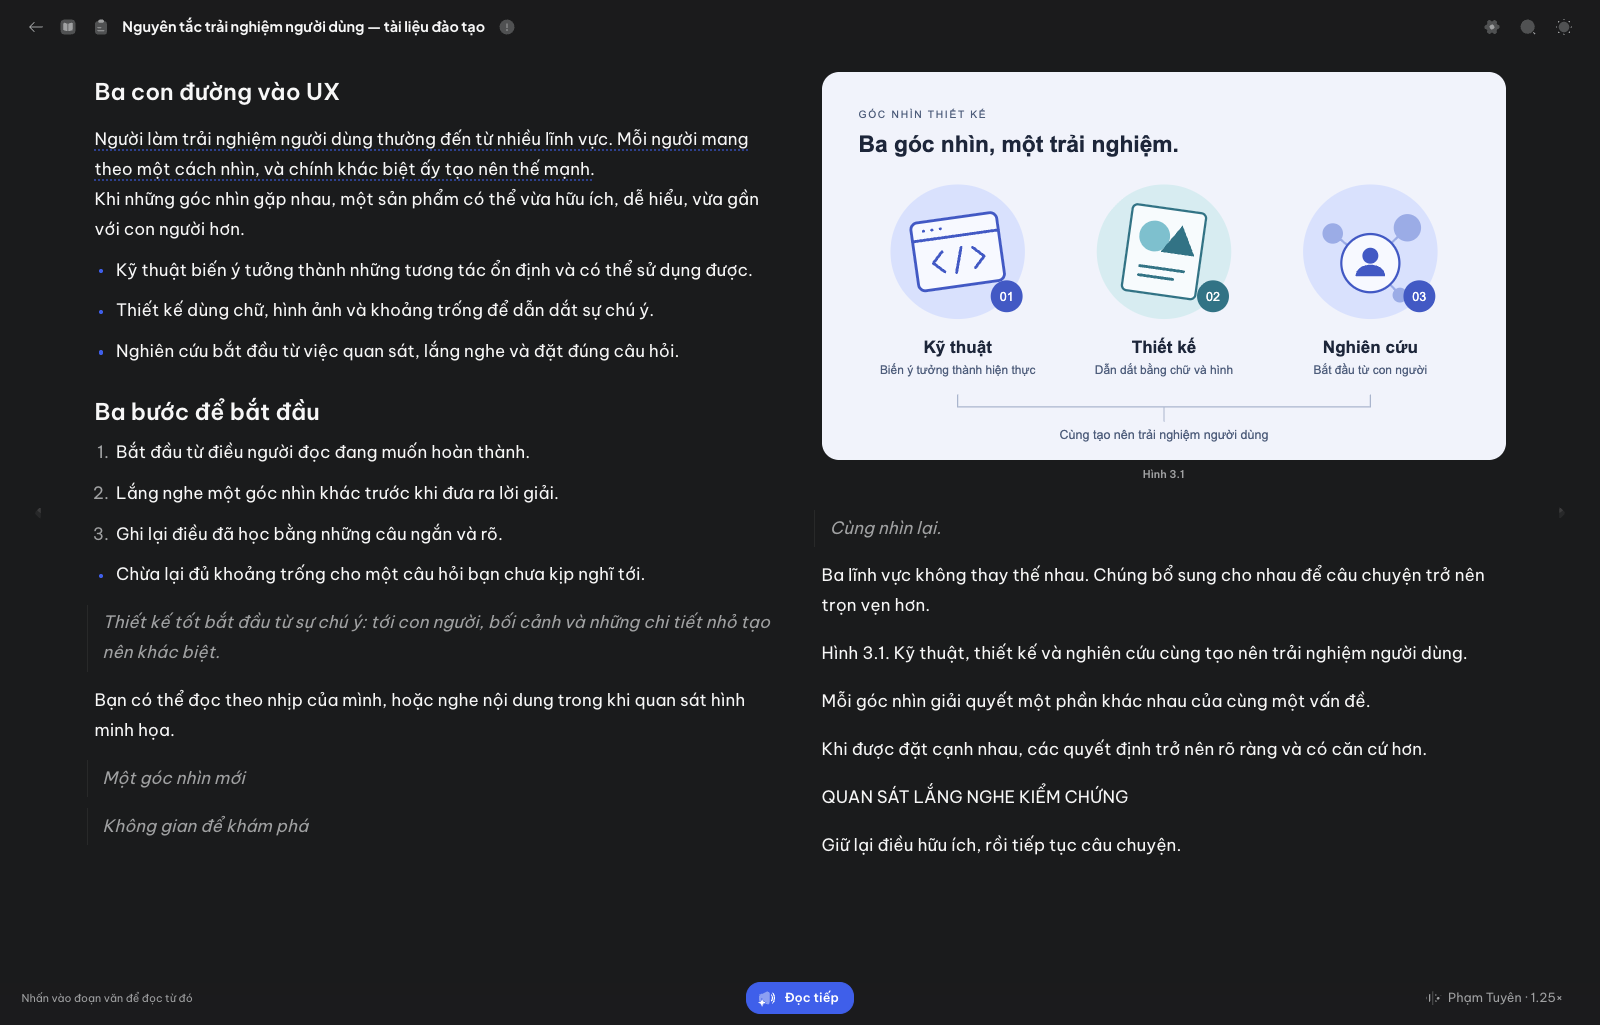
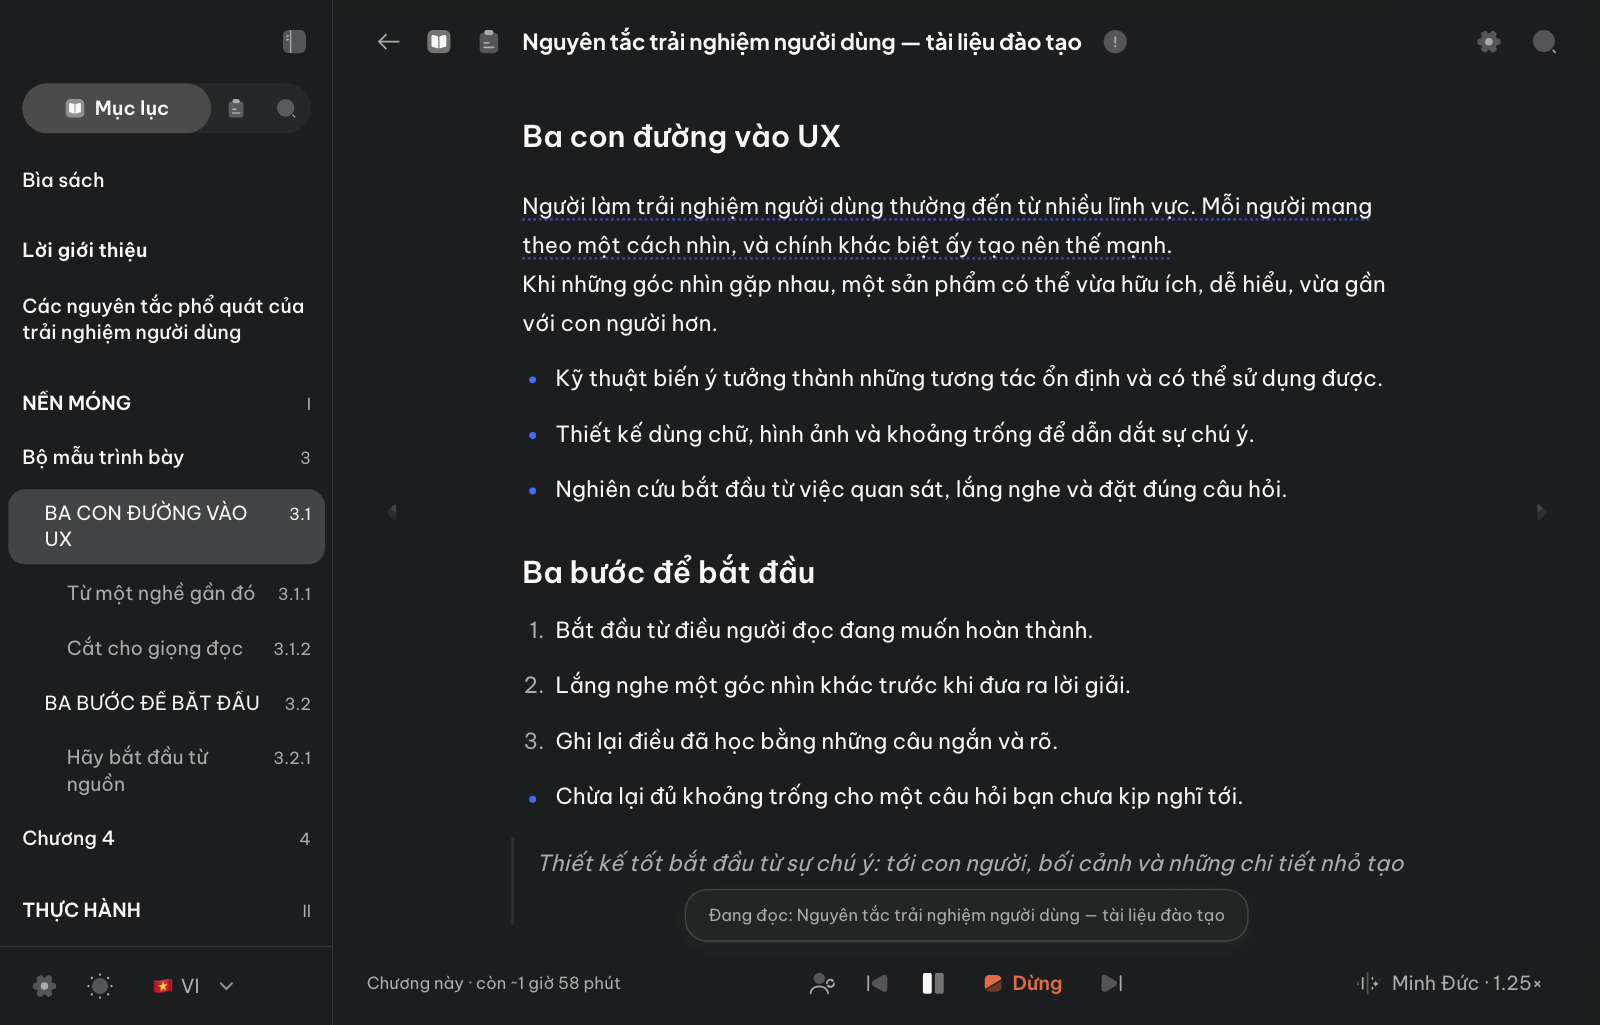
Landing screenshots: a library, a reading under way, its voice
Six new captures tell the landing page's three steps: the Library with four
showcase covers (four layouts, no MOCK label, no rule lines), a reading
under way with the floating status, and Voice settings over that reading.
Captured at 1152x738 with device scale 1600/1152, so the PNGs stay
1600x1025 and the interface reads larger in the laptop frame.

The showcase chapter had grown past its authored copy and white-screened
the reader; it now ends where the copy does. scripts-capture-landing.mjs
reproduces all six from the dev mock.

diff --git a/app/src/dev/mockTauri.ts b/app/src/dev/mockTauri.ts
@@ -1468,6 +1468,10 @@ if (showcaseLocale === "vi" || showcaseLocale === "en") {
     chapter.figures = chapter.figures.filter(figure => !figure.duplicate_of && showcased.has(String(figure.id)));
     if (index === 2) {
       chapter.title = showcaseLocale === "vi" ? "Chương 3 · Những góc nhìn khác nhau" : "Chapter 3 · Different perspectives";
+      // The stress chapter has grown past the authored copy; a segment left
+      // without words white-screened the reader (07/10). Its figures sit
+      // inside the authored part, so the chapter ends where the copy does.
+      chapter.segments = chapter.segments.slice(0, sampler.length);
       chapter.segments.forEach((segment, i) => { segment.text = sampler[i]; });
     }
     chapter.figures.forEach(figure => {
@@ -1477,6 +1481,40 @@ if (showcaseLocale === "vi" || showcaseLocale === "en") {
         : "Engineering, design and research together shape the user experience";
     });
   });
+}
+// Showcase covers (07/10): the pictures on the public landing page. Four
+// layouts, no "MOCK" label and no rule lines - each book looks like itself.
+function showcaseCovers(lang: "vi" | "en"): Record<string, string> {
+  const t = lang === "vi"
+    ? { ux: ["Nguyên tắc", "trải nghiệm"], two: ["Thiết kế cho", "người đọc vội"], three: ["Cẩm nang", "usability"], four: ["Sổ tay", "thiết kế"] }
+    : { ux: ["Principles of", "experience"], two: ["A quieter", "way to read"], three: ["Usability", "notes"], four: ["The design", "field guide"] };
+  const serif = 'font-family="Georgia,serif" font-weight="700"';
+  const sans = 'font-family="Helvetica Neue,Helvetica,Arial" font-weight="700"';
+  const svg = (body: string) => btoa(unescape(encodeURIComponent(
+    `<svg xmlns="http://www.w3.org/2000/svg" width="600" height="900" viewBox="0 0 600 900">${body}</svg>`)));
+  const dots = Array.from({ length: 20 }, (_, i) => {
+    const x = 90 + (i % 4) * 140, y = 360 + Math.floor(i / 4) * 105;
+    return `<rect x="${x - 34}" y="${y - 34}" width="68" height="68" rx="${i % 3 === 0 ? 34 : 14}" fill="#4A2318" opacity="${(0.12 + (i * 7 % 10) / 14).toFixed(2)}"/>`;
+  }).join("");
+  return {
+    "book-ux": svg(`<rect width="600" height="900" fill="#EFE6D6"/>
+<circle cx="470" cy="660" r="260" fill="#C8643B"/><circle cx="200" cy="560" r="70" fill="#2B2118"/>
+<text x="60" y="150" ${serif} font-size="66" fill="#2B2118">${t.ux[0]}</text><text x="60" y="230" ${serif} font-size="66" fill="#2B2118">${t.ux[1]}</text>`),
+    "book-two": svg(`<rect width="600" height="900" fill="#24453A"/>
+<text x="60" y="140" ${sans} font-size="58" fill="#EEF2E6">${t.two[0]}</text><text x="60" y="210" ${sans} font-size="58" fill="#EEF2E6">${t.two[1]}</text>
+<rect x="150" y="430" width="330" height="400" rx="26" fill="#3E6B58"/><rect x="110" y="480" width="330" height="400" rx="26" fill="#6E9C82"/>
+<rect x="70" y="530" width="330" height="400" rx="26" fill="#CFE0C9"/>`),
+    "book-three": svg(`<rect width="600" height="900" fill="#F3D9CC"/>${dots}
+<text x="60" y="150" ${sans} font-size="70" fill="#4A2318">${t.three[0]}</text><text x="60" y="230" ${sans} font-size="70" fill="#4A2318" opacity="0.75">${t.three[1]}</text>`),
+    "book-four": svg(`<rect width="600" height="900" fill="#1D3557"/>
+<circle cx="0" cy="900" r="330" fill="#E9C46A"/><circle cx="0" cy="900" r="210" fill="#F4A261"/><circle cx="600" cy="0" r="150" fill="#457B9D"/>
+<text x="60" y="330" ${serif} font-size="74" fill="#F4F1EA">${t.four[0]}</text><text x="60" y="415" ${serif} font-size="74" fill="#F4F1EA">${t.four[1]}</text>`),
+  };
+}
+if (showcaseLocale === "vi") {
+  const titles: Record<string, string> = { "book-three": "Cẩm nang usability cho đội sản phẩm", "book-four": "Sổ tay của nhóm thiết kế" };
+  LIBRARY.forEach(book => { if (titles[book.id]) book.title = titles[book.id]; });
+  Object.assign(COVERS, showcaseCovers("vi"));
 }
 if (showcaseLocale === "en") {
   SETTINGS.ui_language = "en";
@@ -1490,8 +1528,7 @@ if (showcaseLocale === "en") {
     book.language = book.language_detected = DETECTED_LANGUAGE[book.id] = "en";
     if (book.progress_chapter) book.progress_chapter = `Chapter ${index + 1}`;
   });
-  COVERS["book-ux"] = coverSvg("Principles of", "experience", "#E8DCC8", "#2B2118");
-  COVERS["book-four"] = coverSvg("The design", "field guide", "#1F3A5F", "#F4F1EA");
+  Object.assign(COVERS, showcaseCovers("en"));
   BOOK.chapters.forEach((chapter, index) => {
     // The ordinary showcase uses one illustration, not the default harness's
     // deliberately repeated figure used to stress duplicate-handling tests.

diff --git a/assets/screenshots/en/README.md b/assets/screenshots/en/README.md
@@ -1,29 +1,27 @@
-# English landing screenshots
+# Landing screenshots
 
-Captured 2026-09-22 from the actual React app UI in its existing browser-only
-development harness, at `http://127.0.0.1:1420/?showcase=en`. These are not
-AI-generated mockups or screenshots of a user's private library. The book,
-cover and figure content are synthetic fixtures, not proof of native playback.
+Six 1600×1025 PNGs: `shelf`, `reader` and `voices`, Vietnamese in the parent
+folder and English here. Captured 2026-10-07 from the actual React app UI in
+its browser-only development harness, with the opt-in showcase fixture
+(`?showcase=vi|en` in `app/src/dev/mockTauri.ts`). They are not AI-generated
+mockups or a user's private library; the books, covers, chapter copy and
+figure are synthetic fixtures, not proof of native playback.
 
-- `shelf.png`: Library, English interface and English sample titles.
-- `reader.png`: first sample book, chapter 3, contents hidden, dark theme,
-  text size level 6/8, pages layout, Heart at 1.25×.
-- `voices.png`: same reader, Voice settings → Manage voices → English filter.
-- All three are 1600×1025 PNG viewport captures. No text painted over an image.
+They tell the landing page's three-step story:
 
-Reproduce with `npm run dev --prefix app -- --host 127.0.0.1`, open the URL
-above, then operate the normal UI. The opt-in `showcase=en` fixture lives in
-`app/src/dev/mockTauri.ts`; default fixtures and production app are unchanged.
-The dev module is removed from production builds by the existing DEV gate.
-No native app installation, model download, API call or user book is needed.
+- `shelf.png`: the Library with four showcase covers (four layouts, no label).
+- `reader.png`: the first book, a reading under way from the second paragraph
+  of chapter 3, the floating reading status above the transport. Vietnamese
+  keeps the table of contents; English hides it, because the English fixture
+  translates the chapter, not the contents.
+- `voices.png`: the same reading with Voice settings open.
 
-Landing `/en/` uses this set for Reader/Library/Voices and the library story;
-the English Open Graph image also points here. Vietnamese assets remain in
-the parent folder. Reader and Voices in both locales now include the authored
-three-perspective illustration from `app/src/dev/showcaseFigure.ts`, recaptured
-2026-09-22. The Vietnamese capture uses `?showcase=vi`, text size 6/8 and the
-Phạm Tuyên voice; English uses Heart. The same fixture owns polished chapter
-copy for both locales, while default stress fixtures remain unchanged. Shelf
-captures are unchanged.
-Vite emits only the six explicit screenshots,
-not this provenance document or other files under assets.
+Dark theme, 1152×738 CSS px at device scale 1600/1152, so the interface reads
+a little larger than life inside the page's laptop frame.
+
+Reproduce: start the app's dev server (`pnpm exec vite --port 1420 --strictPort`
+in `app/`), then `node scripts-capture-landing.mjs` from `app/`. It writes all
+six files here and checks, on the way, that the reading status steps aside
+while the quick voice menu is open. No native app, model download, API call or
+user book is needed; the dev module is excluded from production builds.
+Vite emits only the six explicit screenshots, not this document.
